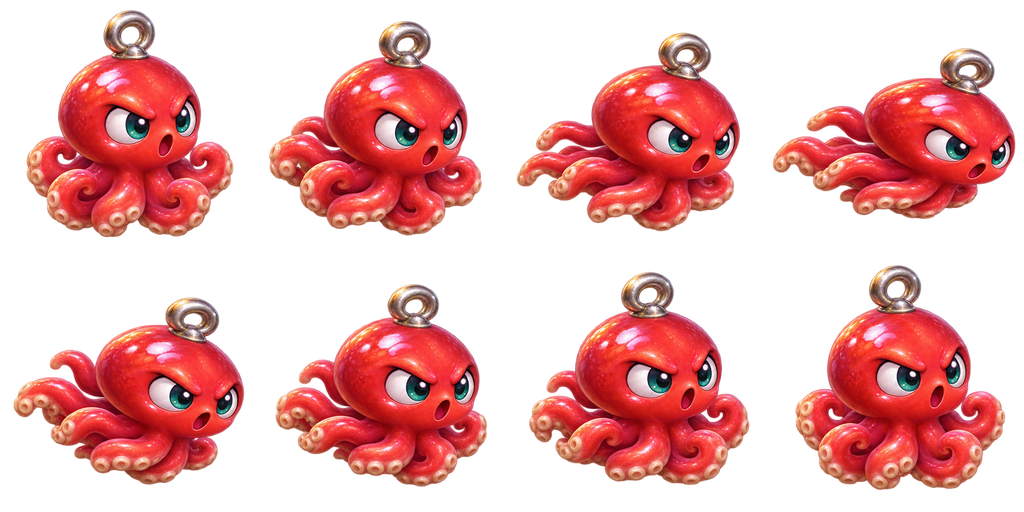
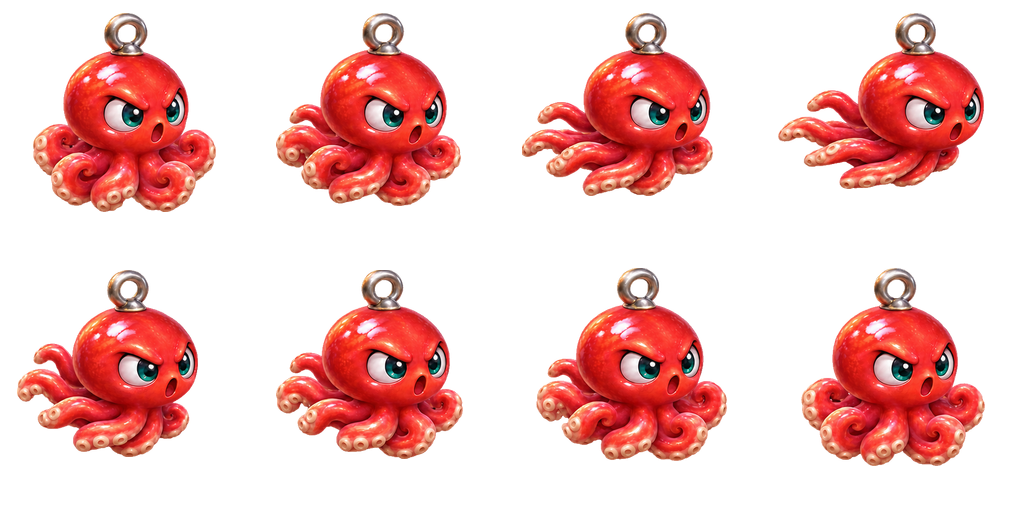
Replace flattened swimming poses with round-head tentacle strokes and calibrated eyelets

diff --git a/human-fishing/index.html b/human-fishing/index.html
@@ -4615,7 +4615,7 @@ var polishedRedLureArt={};
  image.onload=function(){image.ready=true};
  image.onerror=function(){image.ready=false};
  image.src='./assets/octopus/bait/red_lure_polished_'+mode+
-  '_8f.png?v=20261107-polished-alpha';
+  '_8f.png?v=20261107-round-swim-v2';
  polishedRedLureArt[mode]=image;
 });
 // User-approved painted 4x4 / 16-frame OCTO FEVER mouth:
@@ -4679,7 +4679,7 @@ function polishedLureEyelet(mode,frame){
  // Offset the art BEFORE rotation so every pose stays on the string endpoint.
  var points={
   idle:[[129,39],[129,33],[129,24],[129,35],[129,42],[129,45],[129,39],[129,38]],
-  swim:[[130,34],[149,43],[175,55],[200,71],[192,64],[157,51],[137,39],[128,33]],
+  swim:[[127.62,33.32],[128.39,33.29],[135.6,32.81],[149.58,33.25],[128.3,33.27],[127.82,33.21],[128.32,32.75],[127.87,33.36]],
   suction:[[129,31],[129,31],[129,28],[128,25],[129,24],[129,28],[129,29],[129,33]]
  };
  return (points[mode]||points.idle)[Math.max(0,Math.min(7,frame))];
